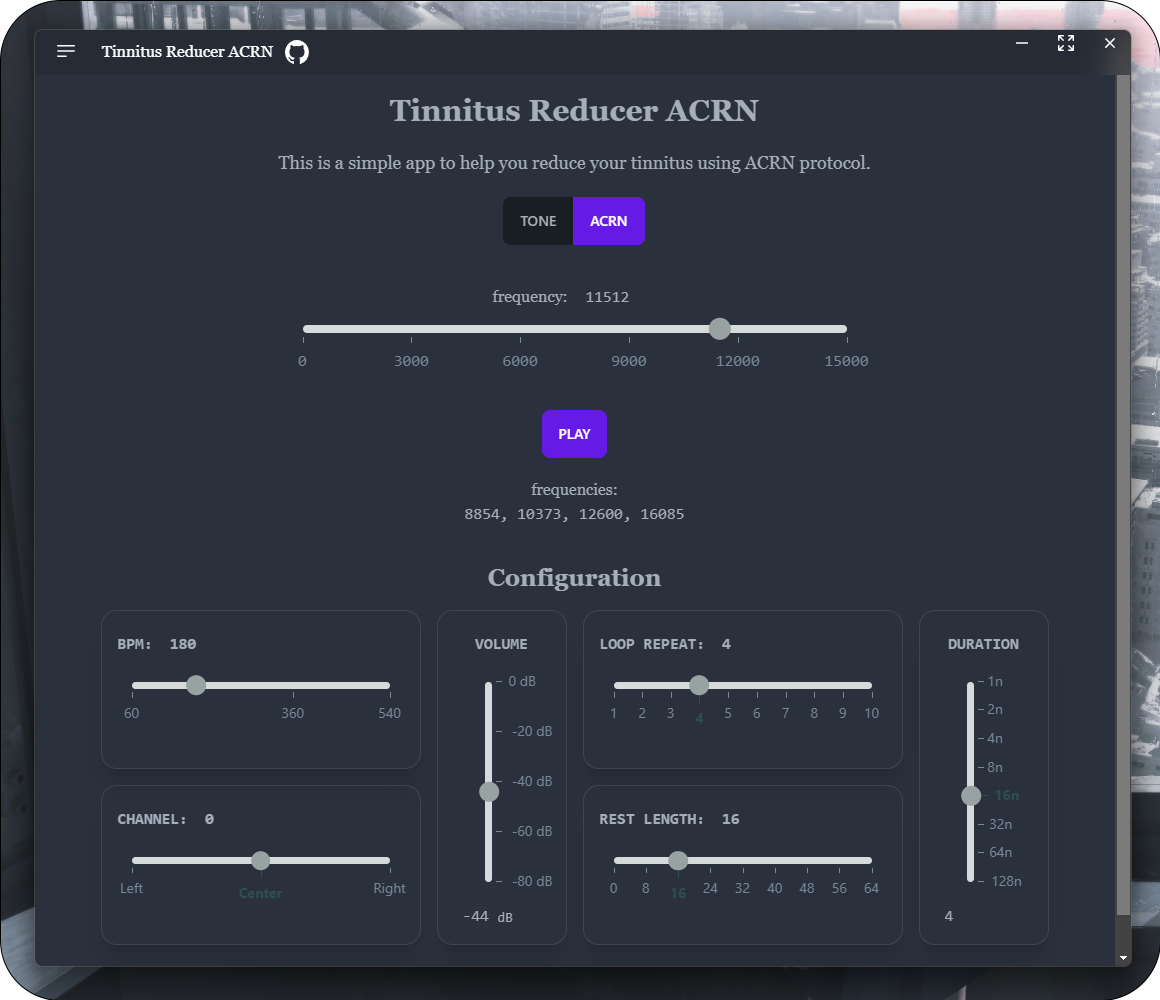
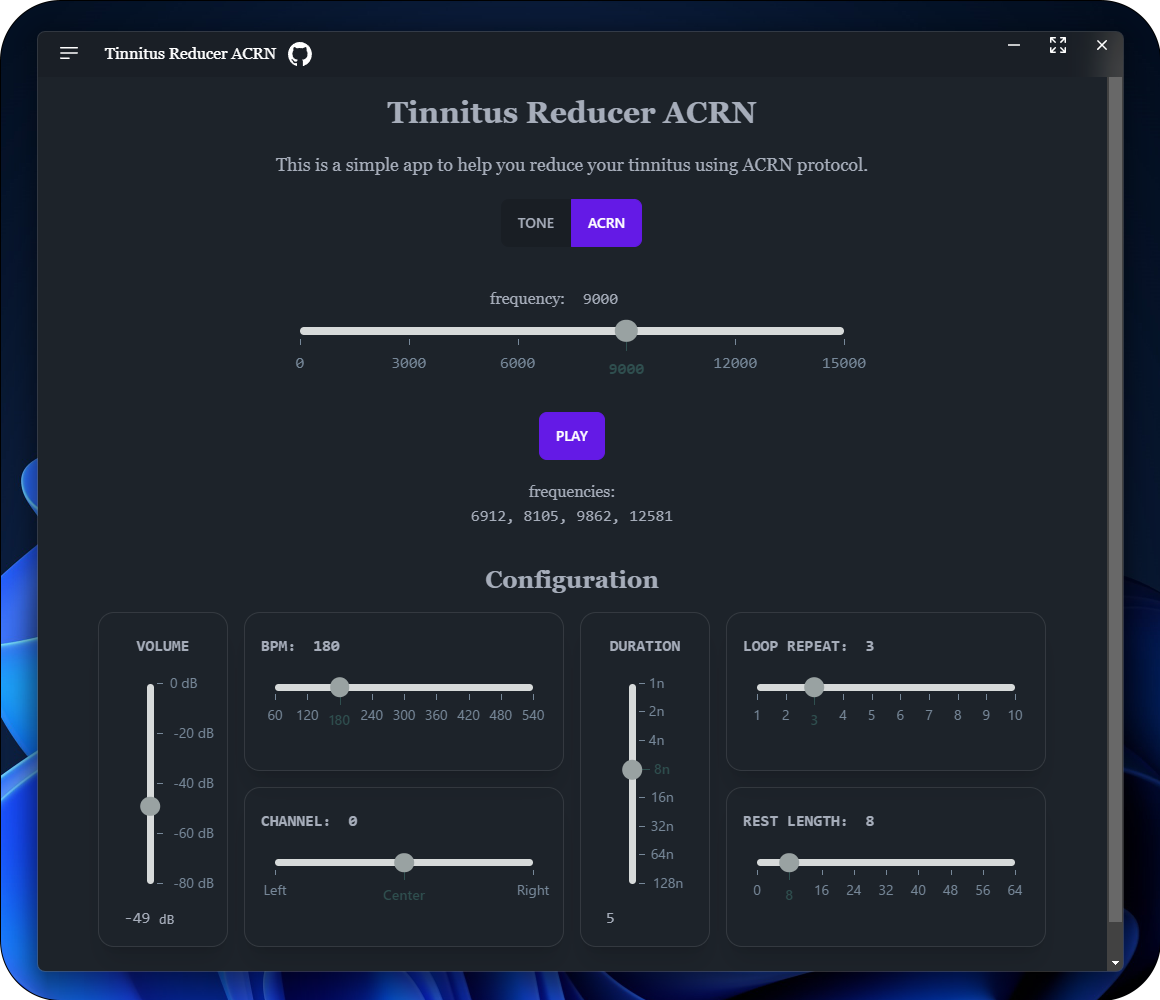
Feature: Modify the layout of the config panel to correct the disjointed tabindex (#53)
* chore: update version to 0.4.0 from 0.3.2

* feat: to fix tabindex, change config_panel layout

* refactor: remove unused imports

* chore: update app image in readme

* chore: add requirements info in readme

diff --git a/src/lib/config_panel/ConfigPanel.svelte b/src/lib/config_panel/ConfigPanel.svelte
@@ -9,16 +9,13 @@
 </script>
 
 <script lang="ts">
-  import { onMount } from "svelte";
-
-  import { writable, type Writable } from "svelte/store";
+  import { writable } from "svelte/store";
   import { match } from "ts-pattern";
   import {
     MAX_BPM,
     MIN_BPM,
     MAX_VOLUME,
     MIN_VOLUME,
-    INITIAL_BPM,
     MAX_PAN,
     MIN_PAN,
     MAX_DURATION,
@@ -71,19 +68,6 @@
   <div class={`flex ${$clientWidth > 540 * 2 ? "flex-row" : "flex-col"} gap-4`}>
     <div class="config-panel w-full gap-4">
       <Slider
-        gridArea="bpm"
-        values={bpm}
-        maxValue={MAX_BPM}
-        minValue={MIN_BPM}
-        isVertical={false}
-        class="w-80"
-        sliderProps={{
-          pips: true,
-          pipstep: 60,
-          all: "label",
-        }}
-      />
-      <Slider
         gridArea="volume"
         values={volume}
         maxValue={MAX_VOLUME}
@@ -93,6 +77,19 @@
         sliderProps={{
           pips: true,
           pipstep: 20,
+          all: "label",
+        }}
+      />
+      <Slider
+        gridArea="bpm"
+        values={bpm}
+        maxValue={MAX_BPM}
+        minValue={MIN_BPM}
+        isVertical={false}
+        class="w-80"
+        sliderProps={{
+          pips: true,
+          pipstep: 60,
           all: "label",
         }}
       />
@@ -169,8 +166,8 @@
     grid-template-columns: auto auto;
     grid-template-rows: auto auto;
     grid-template-areas:
-      "bpm volume"
-      "channel volume";
+      "volume bpm"
+      "volume channel";
   }
 
   @media screen and (max-width: 540px) {
@@ -189,8 +186,8 @@
     grid-template-columns: auto auto;
     grid-template-rows: auto auto;
     grid-template-areas:
-      "loopRepeat duration"
-      "restLength duration";
+      "duration loopRepeat"
+      "duration restLength";
   }
 
   @media screen and (max-width: 540px) {

diff --git a/README.md b/README.md
@@ -16,7 +16,7 @@ This app is available as:
   - Windows
   - macOS
   - Linux
-- Web app: https://r4ai.github.io/tinnitus-reducer-acrn/
+- Web app: <https://r4ai.github.io/tinnitus-reducer-acrn/>
 
 For desktop app, you can download the app installer from [Releases](https://github.com/r4ai/tinnitus-reducer-acrn/releases/latest) page.
 
@@ -50,6 +50,12 @@ This app is heavily inspired by following softwares:
 I do not have a Linux machine and therefore cannot test the Linux version of the app. If you find any bugs, please open an issue and let me know. Even on other operating systems, if you find any problems, please let me know.
 
 If you have any ideas you would like to see implemented in this app, feel free to open a new issue and let me know. **Any kinds of contributions are welcome!!**
+
+### Requirements
+
+- [Node.js](https://nodejs.org/en) >= 18
+- [pnpm](https://pnpm.io/installation)
+- [Tauri](https://tauri.app/v1/guides/getting-started/prerequisites/)
 
 ### Commands
 
